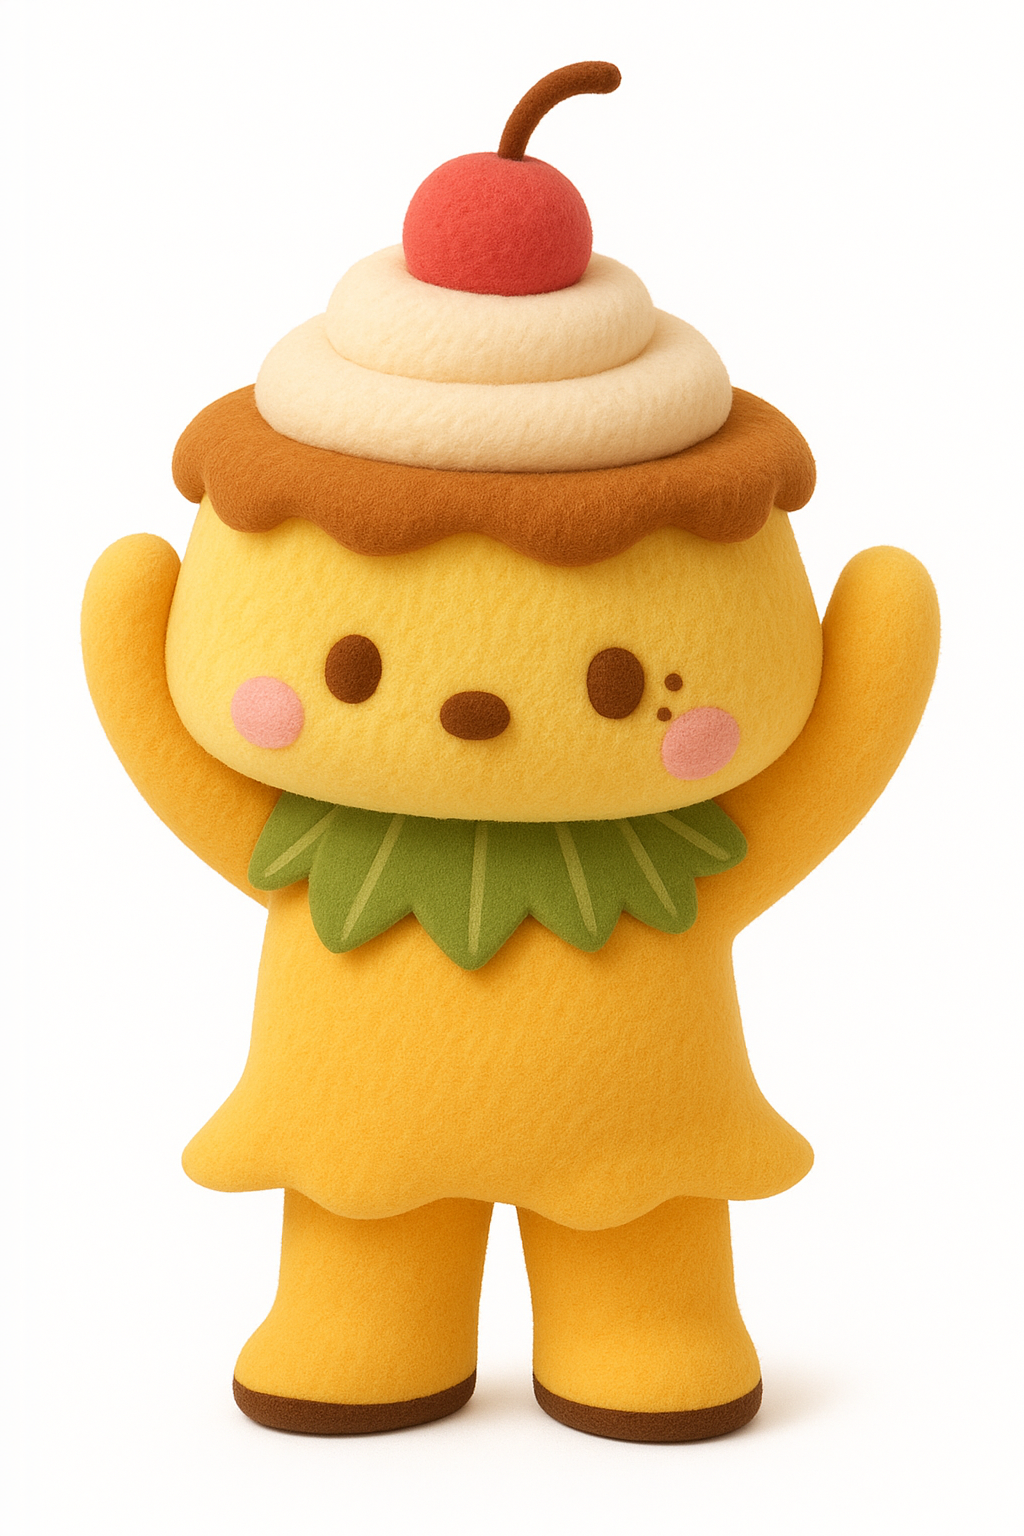
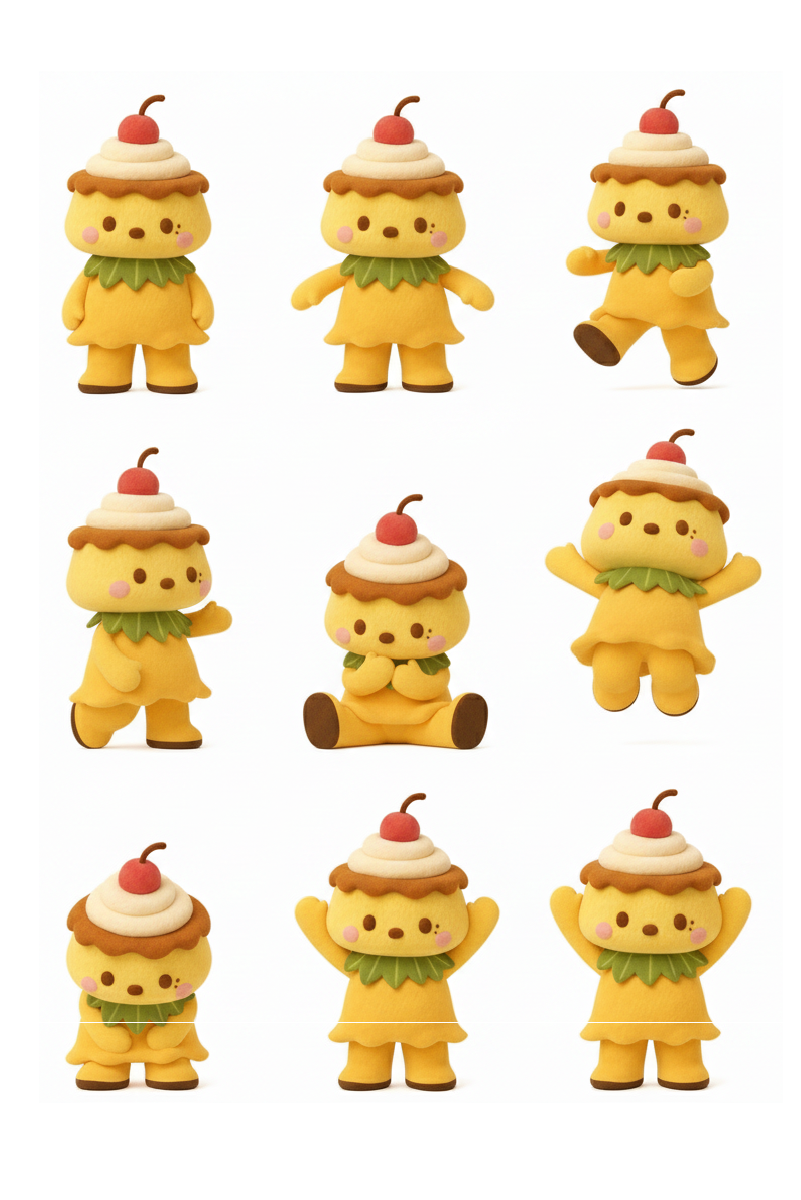
캐릭터 이미지 800×1200 교체, 레이블 포맷 변경
- 전체 이미지 800×1200으로 교체, object-fit: cover 복구
- Po 썸네일 경로 Po_Yong_2023.png로 업데이트
- Preview 레이블: 작가, 〈캐릭터〉, 년도. 형식으로 변경

diff --git a/src/App.tsx b/src/App.tsx
@@ -189,7 +189,9 @@ function PreviewPage({ open, search, category, characters }: {
               {src
                 ? <img src={src} className="prev-img" alt={char.name} />
                 : <div className="prev-img prev-ph" />}
-              <div className={`prev-label${char.placeholder ? ' strike' : ''}`}>{char.name}</div>
+              <div className={`prev-label${char.placeholder ? ' strike' : ''}`}>
+                {char.creator}, 〈{char.name}〉, {char.year}.
+              </div>
             </div>
           );
         })}

diff --git a/src/index.css b/src/index.css
@@ -189,12 +189,11 @@ button, select, input {
 .prev-img {
   width: 100%;
   aspect-ratio: 2 / 3;
-  object-fit: contain;
-  background: #f7f7f7;
+  object-fit: cover;
   display: block;
   transition: opacity 0.15s;
 }
-.prev-ph    { background: #f7f7f7; }
+.prev-ph    { background: #f0f0f0; }
 .prev-label { font-size: 11px; padding: 4px 6px 6px; line-height: 1.4; }
 
 /* ─── Font page ──────────────────────────────────────────────── */

diff --git a/src/data/characters.ts b/src/data/characters.ts
@@ -20,7 +20,7 @@ export const characters: Character[] = [
     creator: 'Yong',
     placeholder: false,
     pinned: true,
-    thumbnail: '/characters/Po.jpg',
+    thumbnail: '/characters/Po_Yong_2023.png',
     url: 'https://www.behance.net/gallery/210641289/Portfoilo',
   },
   { id: 'WI-001', name: 'Dolin',    category: 'Neutral', year: 2025, creator: 'Jin',    placeholder: false, thumbnail: '/characters/Dolin_Jin_2025.png' },
